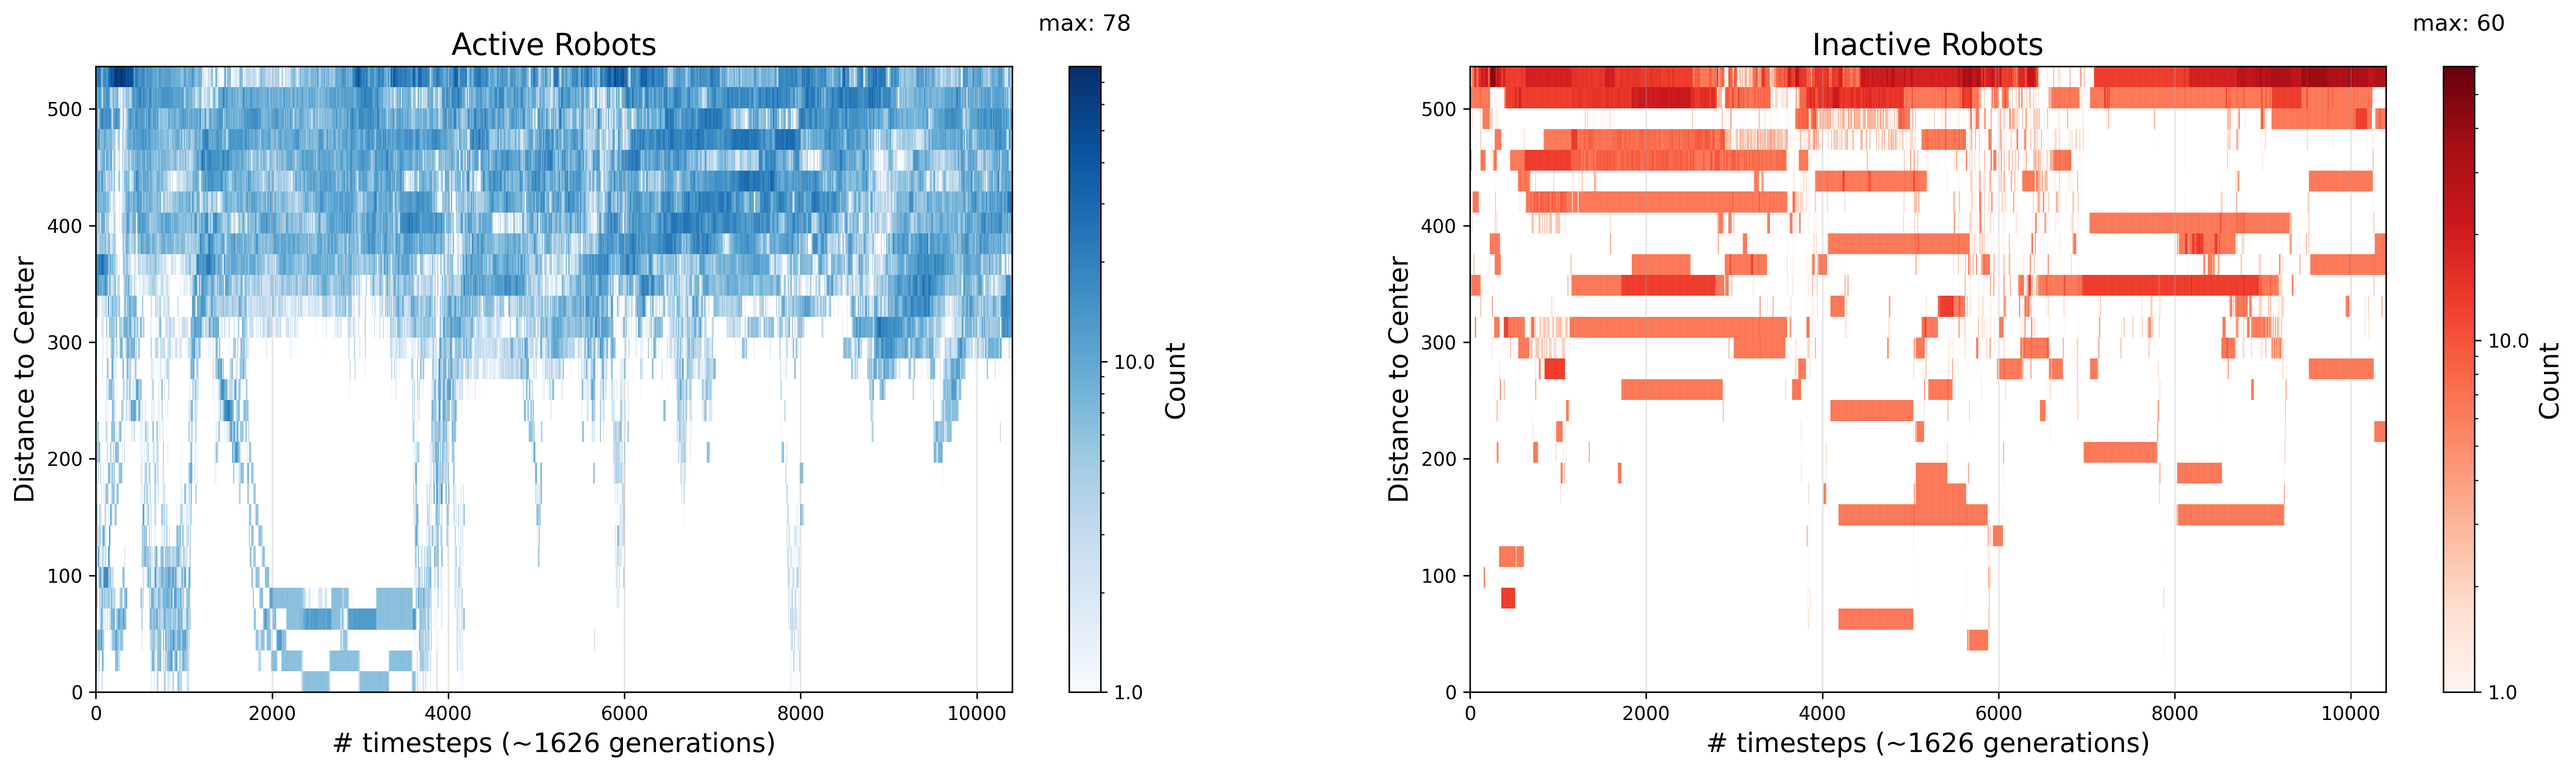
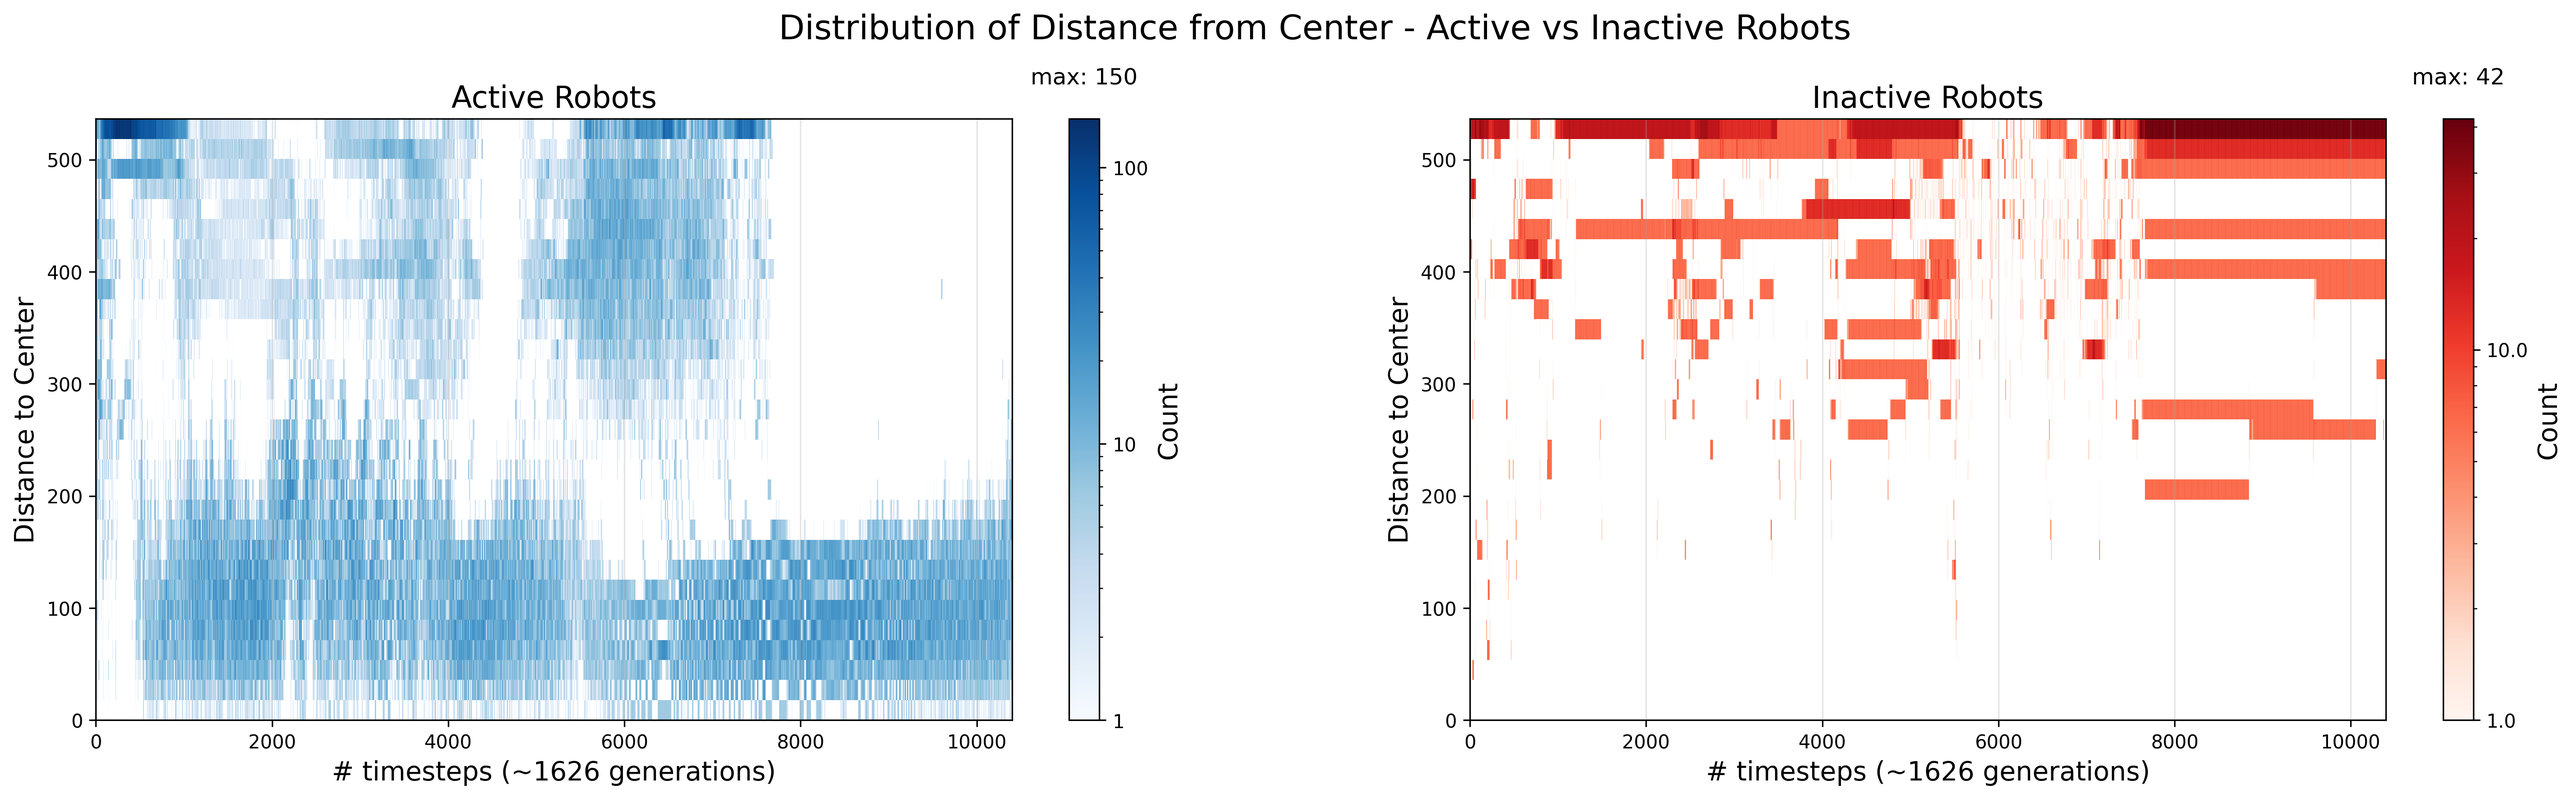
added plots and updated dist/orientation analysis code

diff --git a/dist_and_orientation_analysis.py b/dist_and_orientation_analysis.py
@@ -56,16 +56,25 @@ def filter_active(df, df_agents): # Get only active robots
         return df[df['is_active'] == 1]
     return df
 
+def filter_inactive(df, df_agents): # Get only inactive robots
+    if df_agents is not None:
+        df_agents_inactive = df_agents[['robot_id', 'generation', 'is_active']].drop_duplicates()
+        df = df.merge(df_agents_inactive, on=['robot_id', 'generation'], how='left')
+        return df[df['is_active'] == 0]
+    return df
 
-def plot_global_orientation_heatmap(df_pos, df_agents=None, active_only=False, save_path=None, time_per_generation=6.6667, num_generations=None):
+
+def plot_global_orientation_heatmap(df_pos, df_agents=None, robot_status='all', save_path=None, time_per_generation=6.6667, num_generations=None):
     if df_pos is None: return
 
     df = df_pos.copy()
     # Normalize to -pi to pi (not necessary but)
     df['angle'] = (df['angle'] + np.pi) % (2 * np.pi) - np.pi
 
-    if active_only:
+    if robot_status == 'active':
         df = filter_active(df, df_agents)
+    elif robot_status == 'inactive':
+        df = filter_inactive(df, df_agents)
 
     # Binning
     num_generations = df['generation'].max() - df['generation'].min() + 1
@@ -80,7 +89,8 @@ def plot_global_orientation_heatmap(df_pos, df_agents=None, active_only=False, s
     ax.set_ylabel('Global Orientation', fontsize=14)
     
     title = 'Global Orientation (NSEW)'
-    if active_only: title += ' - Active Robots'
+    if robot_status == 'active': title += ' - Active Robots'
+    elif robot_status == 'inactive': title += ' - Inactive Robots'
     ax.set_title(title, fontsize=16)
     
     ax.grid(True, axis='x', color='darkgrey', alpha=0.3, zorder=1)
@@ -99,7 +109,55 @@ def plot_global_orientation_heatmap(df_pos, df_agents=None, active_only=False, s
         plt.savefig(save_path, dpi=300, bbox_inches='tight')
         plt.close()
 
-def plot_relative_orientation_heatmap(df_pos, df_agents=None, active_only=False, center_x=0, center_y=0, save_path=None, time_per_generation=6.6667, num_generations=None):
+def plot_distance_heatmap_both(df_pos, center_x, center_y, df_agents, save_path=None, time_per_generation=6.6667, num_generations=None):
+    if df_pos is None or df_agents is None: return
+
+    df_active = filter_active(df_pos.copy(), df_agents)
+    df_inactive = filter_inactive(df_pos.copy(), df_agents)
+
+    df_active['distance'] = np.sqrt((df_active['x'] - center_x)**2 + (df_active['y'] - center_y)**2)
+    df_inactive['distance'] = np.sqrt((df_inactive['x'] - center_x)**2 + (df_inactive['y'] - center_y)**2)
+
+    if num_generations is None:
+        num_generations = df_pos['generation'].max() - df_pos['generation'].min() + 1
+    time_bins = np.linspace(df_pos['time'].min(), df_pos['time'].max(), num_generations + 1)
+    dist_bins = np.linspace(0, max(df_active['distance'].max(), df_inactive['distance'].max()), 31)
+
+    fig, (ax1, ax2) = plt.subplots(1, 2, figsize=(24, 6))
+    fig.suptitle('Distribution of Distance from Center - Active vs Inactive Robots', fontsize=18)
+    plt.subplots_adjust(top=0.85)
+
+    # Active
+    H1, xedges, yedges, im1 = ax1.hist2d(df_active['time'], df_active['distance'], bins=[time_bins, dist_bins], cmap='Blues', norm=LogNorm())
+    ax1.set_facecolor('white')
+    ax1.set_xlabel(f'# timesteps (~{num_generations} generations)', fontsize=14)
+    ax1.set_ylabel('Distance to Center', fontsize=14)
+    ax1.set_title('Active Robots', fontsize=16)
+    ax1.grid(True, axis='x', color='darkgrey', alpha=0.3, zorder=1)
+    cbar1 = plt.colorbar(im1, ax=ax1)
+    cbar1.formatter = ticker.ScalarFormatter()
+    cbar1.update_ticks()
+    cbar1.set_label('Count', fontsize=14)
+    cbar1.ax.text(0.5, 1.05, f'max: {int(H1.max())}', transform=cbar1.ax.transAxes, ha='center', va='bottom', fontsize=12)
+
+    # Inactive
+    H2, xedges, yedges, im2 = ax2.hist2d(df_inactive['time'], df_inactive['distance'], bins=[time_bins, dist_bins], cmap='Reds', norm=LogNorm())
+    ax2.set_facecolor('white')
+    ax2.set_xlabel(f'# timesteps (~{num_generations} generations)', fontsize=14)
+    ax2.set_ylabel('Distance to Center', fontsize=14)
+    ax2.set_title('Inactive Robots', fontsize=16)
+    ax2.grid(True, axis='x', color='darkgrey', alpha=0.3, zorder=1)
+    cbar2 = plt.colorbar(im2, ax=ax2)
+    cbar2.formatter = ticker.ScalarFormatter()
+    cbar2.update_ticks()
+    cbar2.set_label('Count', fontsize=14)
+    cbar2.ax.text(0.5, 1.05, f'max: {int(H2.max())}', transform=cbar2.ax.transAxes, ha='center', va='bottom', fontsize=12)
+
+    if save_path:
+        plt.savefig(save_path, dpi=300, bbox_inches='tight')
+        plt.close()
+
+def plot_relative_orientation_heatmap(df_pos, df_agents=None, robot_status='all', center_x=0, center_y=0, save_path=None, time_per_generation=6.6667, num_generations=None):
     """
     Plot heatmap of generation vs Relative Orientation to Center.
     0 = Facing Center, +/- Pi = Facing Away.
@@ -115,8 +173,10 @@ def plot_relative_orientation_heatmap(df_pos, df_agents=None, active_only=False,
     
     df['rel_angle'] = (relative_angle + np.pi) % (2 * np.pi) - np.pi
     
-    if active_only:
+    if robot_status == 'active':
         df = filter_active(df, df_agents)
+    elif robot_status == 'inactive':
+        df = filter_inactive(df, df_agents)
 
     if num_generations is None:
         num_generations = df['generation'].max() - df['generation'].min() + 1
@@ -131,7 +191,8 @@ def plot_relative_orientation_heatmap(df_pos, df_agents=None, active_only=False,
     ax.set_ylabel('Orientation Relative to Center', fontsize=14)
     
     title = 'Robot Orientation Relative to Arena Center'
-    if active_only: title += ' - Active Robots'
+    if robot_status == 'active': title += ' - Active Robots'
+    elif robot_status == 'inactive': title += ' - Inactive Robots'
     ax.set_title(title, fontsize=16)
     
     ax.grid(True, axis='x', color='darkgrey', alpha=0.3, zorder=1)
@@ -155,14 +216,16 @@ def plot_relative_orientation_heatmap(df_pos, df_agents=None, active_only=False,
         plt.savefig(save_path, dpi=300, bbox_inches='tight')
         plt.close()
 
-def plot_distance_heatmap(df_pos, center_x, center_y, df_agents=None, active_only=False, save_path=None, time_per_generation=6.6667, num_generations=None):
+def plot_distance_heatmap(df_pos, center_x, center_y, df_agents=None, robot_status='all', save_path=None, time_per_generation=6.6667, num_generations=None):
     if df_pos is None: return
 
     df = df_pos.copy()
     df['distance'] = np.sqrt((df['x'] - center_x)**2 + (df['y'] - center_y)**2)
 
-    if active_only:
+    if robot_status == 'active':
         df = filter_active(df, df_agents)
+    elif robot_status == 'inactive':
+        df = filter_inactive(df, df_agents)
 
     if num_generations is None:
         num_generations = df['generation'].max() - df['generation'].min() + 1
@@ -177,7 +240,8 @@ def plot_distance_heatmap(df_pos, center_x, center_y, df_agents=None, active_onl
     ax.set_ylabel('Distance to Center', fontsize=14)
     
     title = 'Distribution of Distance from Center'
-    if active_only: title += ' - Active Robots'
+    if robot_status == 'active': title += ' - Active Robots'
+    elif robot_status == 'inactive': title += ' - Inactive Robots'
     ax.set_title(title, fontsize=16)
     
     ax.grid(True, axis='x', color='darkgrey', alpha=0.3, zorder=1)
@@ -240,10 +304,12 @@ def main():
     # plot_global_orientation_heatmap(df_pos, active_only=False, save_path=os.path.join(directory, 'orientation_global_all.png'), time_per_generation=time_per_generation, num_generations=num_generations)
     # plot_global_orientation_heatmap(df_pos, df_agents, active_only=True, save_path=os.path.join(directory, 'orientation_global_active.png'), time_per_generation=time_per_generation, num_generations=num_generations)
     # plot_relative_orientation_heatmap(df_pos, center_x=center_x, center_y=center_y, active_only=False, save_path=os.path.join(directory, 'orientation_relative_all.png'), time_per_generation=time_per_generation, num_generations=num_generations)
-    plot_relative_orientation_heatmap(df_pos, df_agents, center_x=center_x, center_y=center_y, active_only=True, save_path=os.path.join(directory, 'orientation_relative_active.png'), time_per_generation=time_per_generation, num_generations=num_generations)
+    plot_relative_orientation_heatmap(df_pos, df_agents, center_x=center_x, center_y=center_y, robot_status='active', save_path=os.path.join(directory, 'orientation_relative_active.png'), time_per_generation=time_per_generation, num_generations=num_generations)
 
     plot_distance_heatmap(df_pos, center_x, center_y, save_path=os.path.join(directory, 'distance_heatmap.png'), time_per_generation=time_per_generation, num_generations=num_generations)
-    plot_distance_heatmap(df_pos, center_x, center_y, df_agents, active_only=True, save_path=os.path.join(directory, 'distance_heatmap_active.png'), time_per_generation=time_per_generation, num_generations=num_generations)
+    plot_distance_heatmap(df_pos, center_x, center_y, df_agents, robot_status='active', save_path=os.path.join(directory, 'distance_heatmap_active.png'), time_per_generation=time_per_generation, num_generations=num_generations)
+    plot_distance_heatmap(df_pos, center_x, center_y, df_agents, robot_status='inactive', save_path=os.path.join(directory, 'distance_heatmap_inactive.png'), time_per_generation=time_per_generation, num_generations=num_generations)
+    plot_distance_heatmap_both(df_pos, center_x, center_y, df_agents, save_path=os.path.join(directory, 'distance_heatmap_both.png'), time_per_generation=time_per_generation, num_generations=num_generations)
 
     print(f"Plots saved to '{directory}/' directory")
 
